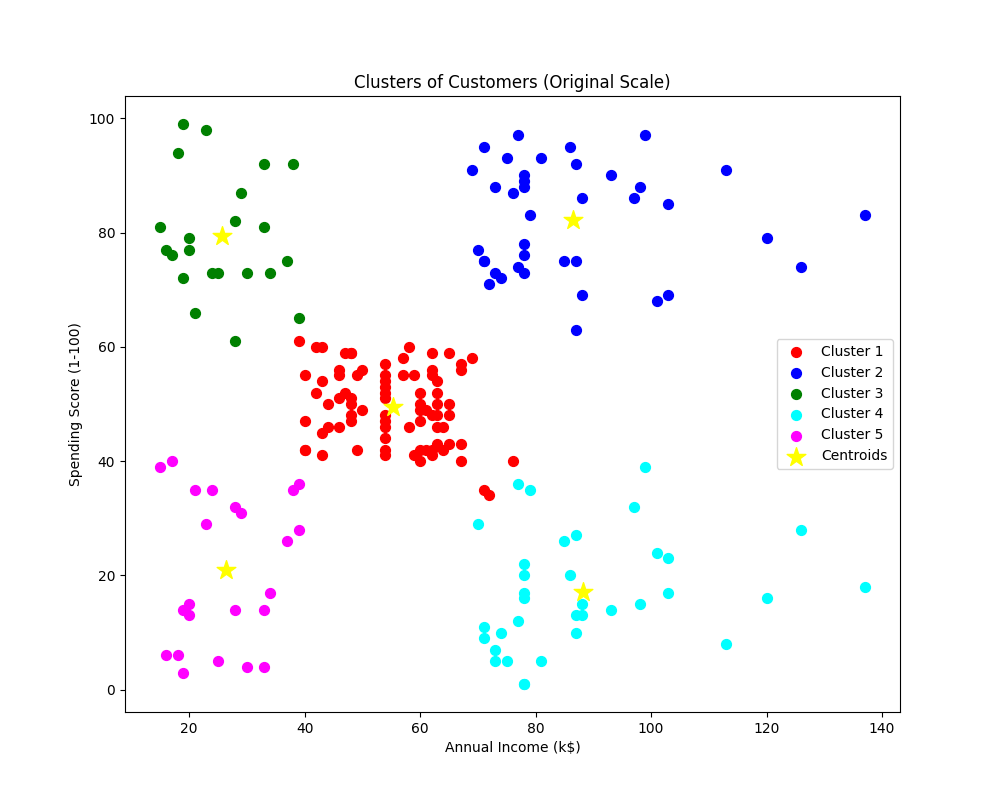
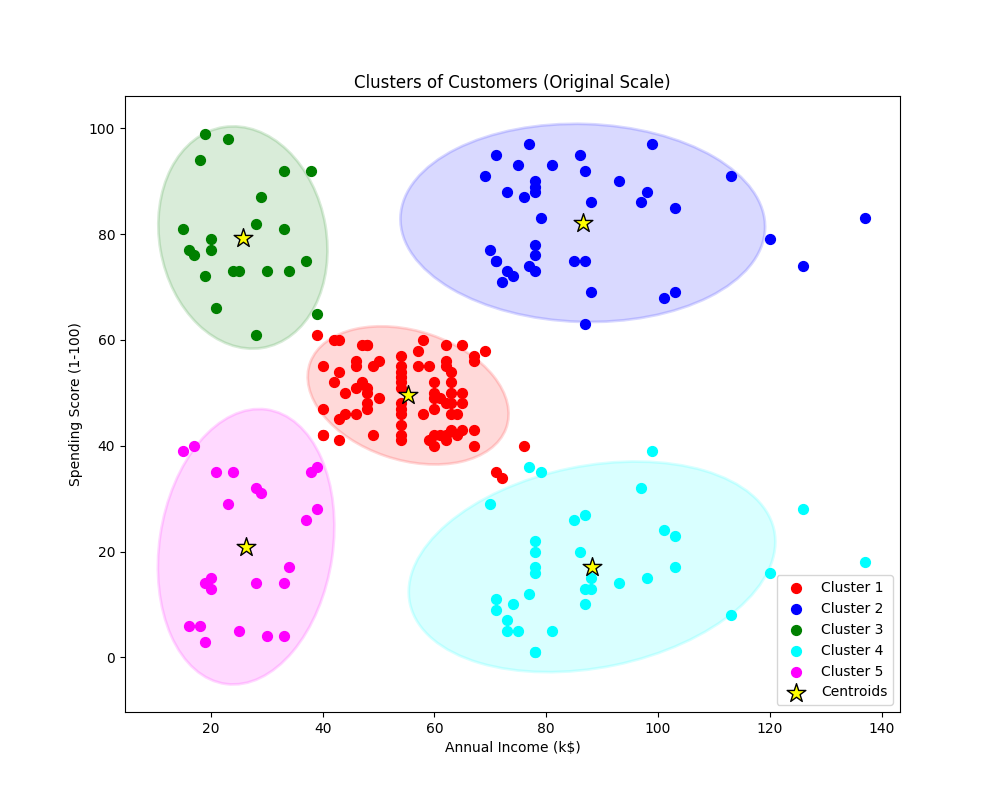
feat: add confidence ellipses around clusters

diff --git a/kmeans_clustering.py b/kmeans_clustering.py
@@ -1,8 +1,30 @@
 import pandas as pd
 import numpy as np
 import matplotlib.pyplot as plt
+from matplotlib.patches import Ellipse
 from sklearn.cluster import KMeans
 from sklearn.preprocessing import StandardScaler
+
+
+def draw_cluster_ellipse(ax, points, color, n_std=2.0):
+    """Draw a confidence ellipse around a cluster of 2D points."""
+    if len(points) < 2:
+        return
+    mean = np.mean(points, axis=0)
+    cov = np.cov(points, rowvar=False)
+    # Eigenvalues & eigenvectors of covariance matrix
+    eigenvalues, eigenvectors = np.linalg.eigh(cov)
+    # Sort by largest eigenvalue
+    order = eigenvalues.argsort()[::-1]
+    eigenvalues = eigenvalues[order]
+    eigenvectors = eigenvectors[:, order]
+    # Angle of rotation
+    angle = np.degrees(np.arctan2(eigenvectors[1, 0], eigenvectors[0, 0]))
+    # Width and height of ellipse (scaled by n_std standard deviations)
+    width, height = 2 * n_std * np.sqrt(eigenvalues)
+    ellipse = Ellipse(xy=mean, width=width, height=height, angle=angle,
+                      edgecolor=color, facecolor=color, alpha=0.15, linewidth=2)
+    ax.add_patch(ellipse)
 
 # Load data
 df = pd.read_csv('Mall_Customers.csv')
@@ -38,32 +60,36 @@ y_kmeans = kmeans.fit_predict(X_scaled)
 # Add cluster labels to the original dataframe
 df['Cluster'] = y_kmeans
 
-# Visualize the clusters
-plt.figure(figsize=(10, 8))
+# Visualize the clusters with ellipses
+fig, ax = plt.subplots(figsize=(10, 8))
 colors = ['red', 'blue', 'green', 'cyan', 'magenta']
 for i in range(optimal_clusters):
-    plt.scatter(X_scaled[y_kmeans == i, 0], X_scaled[y_kmeans == i, 1], s=50, c=colors[i], label=f'Cluster {i+1}')
+    cluster_points = X_scaled[y_kmeans == i]
+    ax.scatter(cluster_points[:, 0], cluster_points[:, 1], s=50, c=colors[i], label=f'Cluster {i+1}')
+    draw_cluster_ellipse(ax, cluster_points, colors[i])
 
-plt.scatter(kmeans.cluster_centers_[:, 0], kmeans.cluster_centers_[:, 1], s=200, c='yellow', label='Centroids', marker='*')
-plt.title('Clusters of Customers')
-plt.xlabel('Annual Income (k$) (Scaled)')
-plt.ylabel('Spending Score (1-100) (Scaled)')
-plt.legend()
+ax.scatter(kmeans.cluster_centers_[:, 0], kmeans.cluster_centers_[:, 1], s=200, c='yellow', label='Centroids', marker='*', edgecolors='black', zorder=5)
+ax.set_title('Clusters of Customers')
+ax.set_xlabel('Annual Income (k$) (Scaled)')
+ax.set_ylabel('Spending Score (1-100) (Scaled)')
+ax.legend()
 plt.savefig('clusters_scaled.png')
 plt.close()
 
-# Visualize the clusters on original unscaled data for better interpretation
-plt.figure(figsize=(10, 8))
+# Visualize the clusters on original unscaled data with ellipses
+fig, ax = plt.subplots(figsize=(10, 8))
 for i in range(optimal_clusters):
-    plt.scatter(X.iloc[y_kmeans == i, 0], X.iloc[y_kmeans == i, 1], s=50, c=colors[i], label=f'Cluster {i+1}')
+    cluster_points = X.iloc[y_kmeans == i].values
+    ax.scatter(cluster_points[:, 0], cluster_points[:, 1], s=50, c=colors[i], label=f'Cluster {i+1}')
+    draw_cluster_ellipse(ax, cluster_points, colors[i])
 
 # Inverse transform centroids to original scale
 centroids_original = scaler.inverse_transform(kmeans.cluster_centers_)
-plt.scatter(centroids_original[:, 0], centroids_original[:, 1], s=200, c='yellow', label='Centroids', marker='*')
-plt.title('Clusters of Customers (Original Scale)')
-plt.xlabel('Annual Income (k$)')
-plt.ylabel('Spending Score (1-100)')
-plt.legend()
+ax.scatter(centroids_original[:, 0], centroids_original[:, 1], s=200, c='yellow', label='Centroids', marker='*', edgecolors='black', zorder=5)
+ax.set_title('Clusters of Customers (Original Scale)')
+ax.set_xlabel('Annual Income (k$)')
+ax.set_ylabel('Spending Score (1-100)')
+ax.legend()
 plt.savefig('clusters_original.png')
 plt.close()
 
